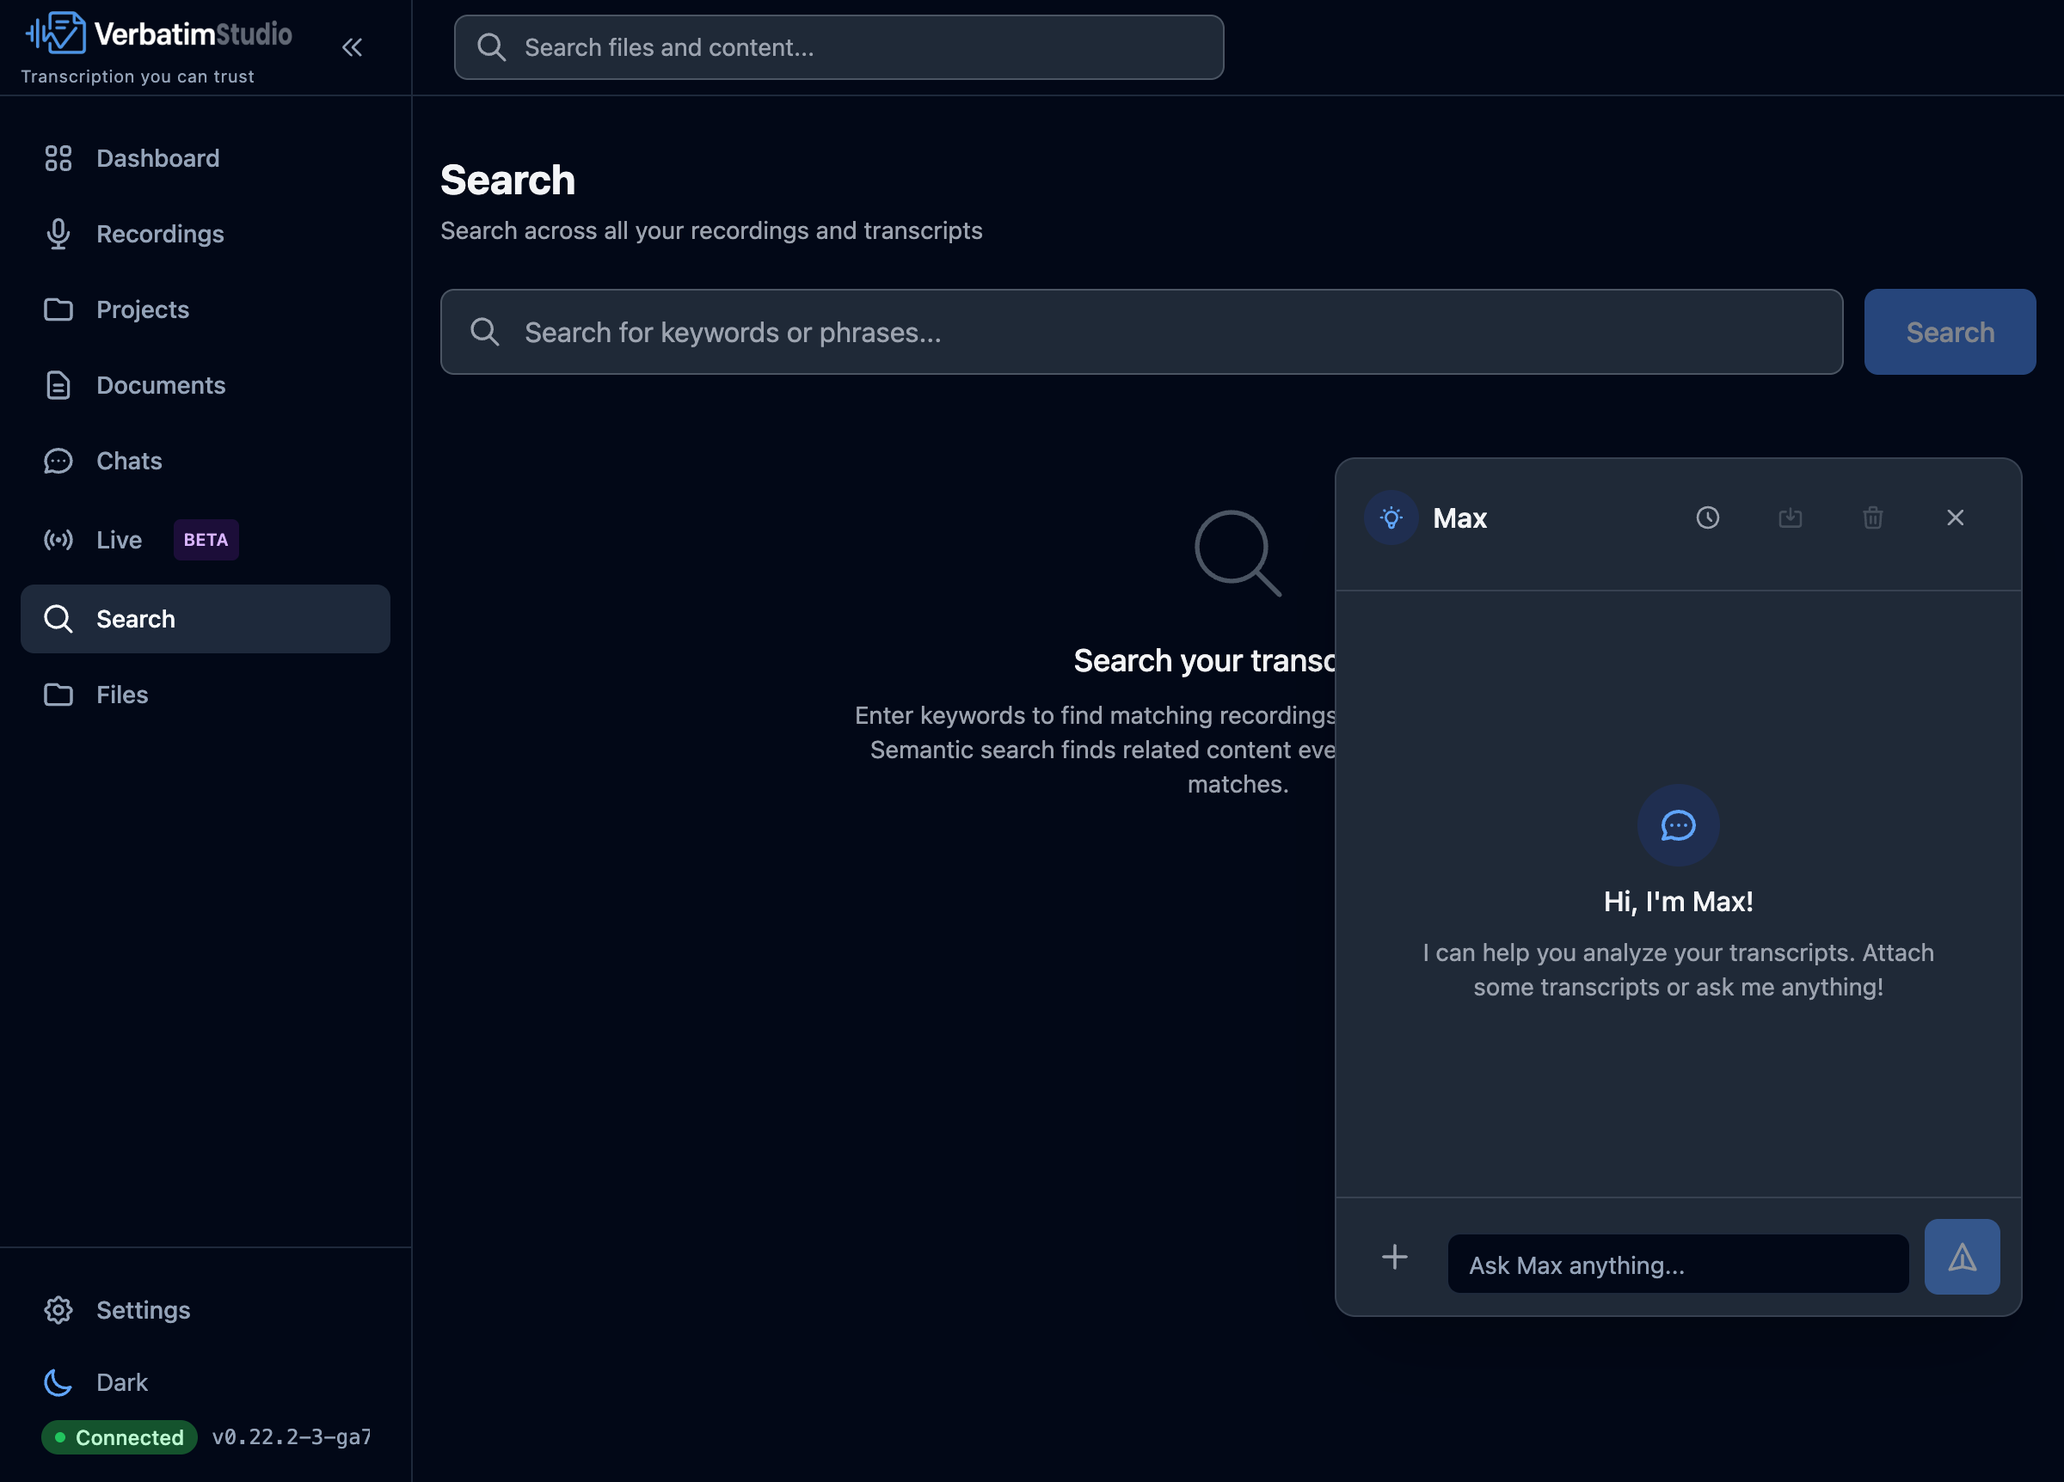
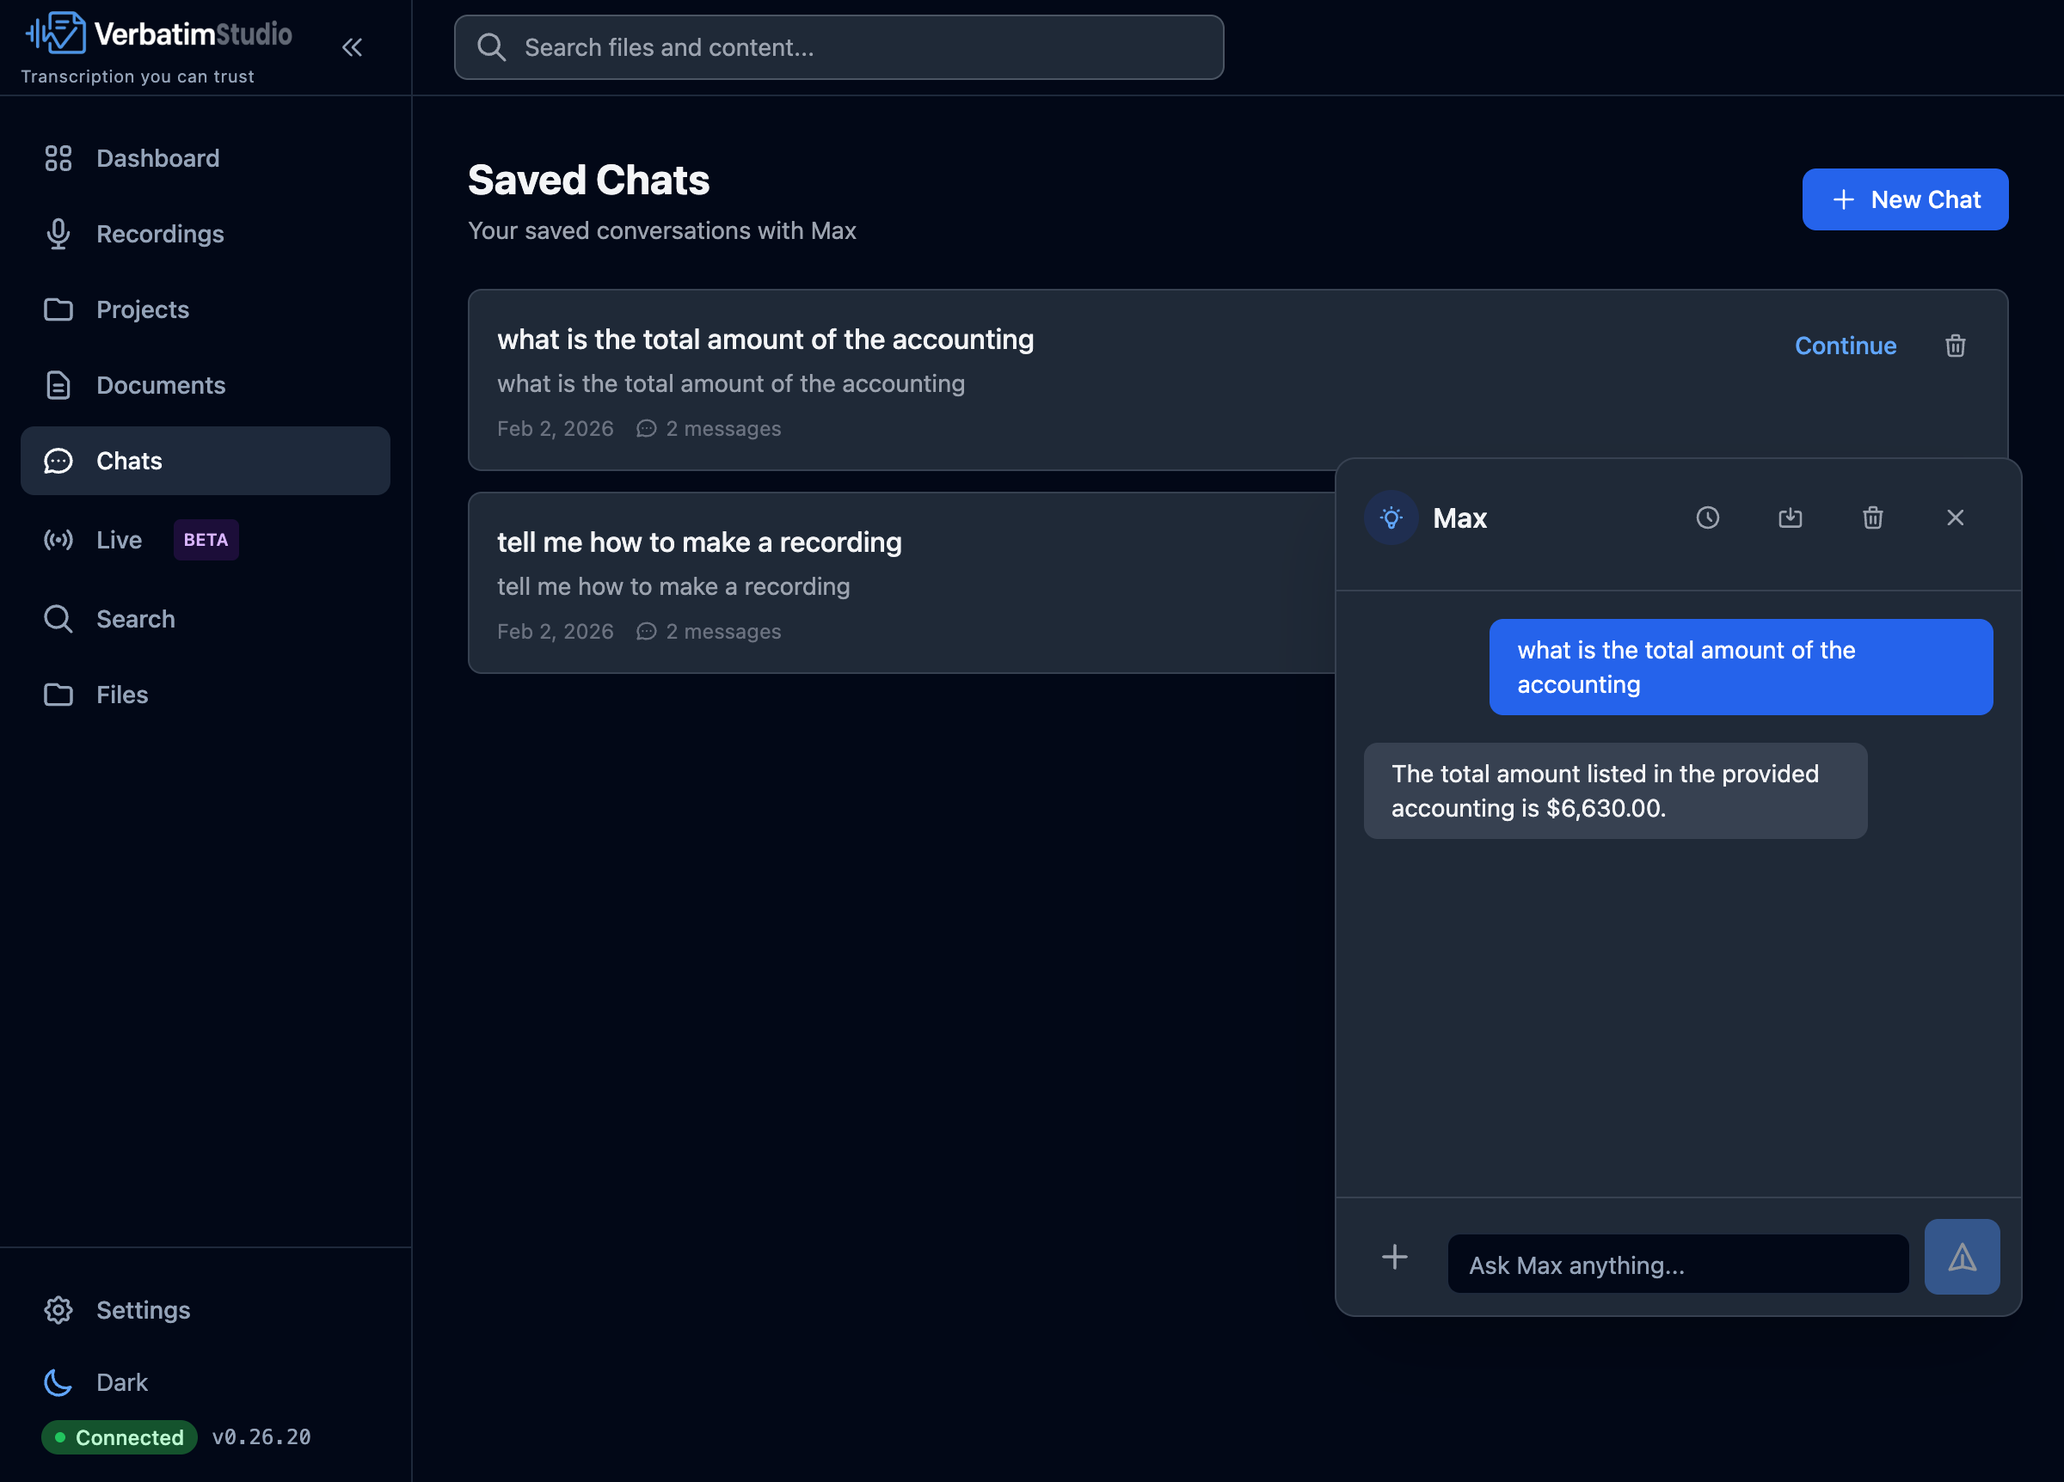
docs: rewrite README with improved marketing copy and fresh screenshots
- New tagline: "Your data. Your device. Your rules."
- Enhanced Why section with Built for Compliance and Built for Everyone
- Value-focused feature descriptions
- Added multi-language transcription support mention
- Updated platform table (macOS Apple Silicon available, others coming soon)
- Updated roadmap to v0.26.x with accurate feature status
- Fresh screenshots of current UI
- Archived old screenshots to docs/screenshots/archive-2025-02-01/

diff --git a/README.md b/README.md
@@ -8,7 +8,7 @@
 </h1>
 
 <p align="center">
-  <strong>Privacy-first transcription for sensitive workflows</strong>
+  <strong>Your data. Your device. Your rules.</strong>
 </p>
 
 <p align="center">
@@ -23,62 +23,84 @@
 <p align="center">
   <img src="https://img.shields.io/github/v/tag/JongoDB/verbatim-studio?label=version&color=blue" alt="Version">
   <img src="https://img.shields.io/badge/license-MIT-green.svg" alt="License">
-  <img src="https://img.shields.io/badge/python-3.12+-yellow.svg" alt="Python">
-  <img src="https://img.shields.io/badge/node-20+-green.svg" alt="Node">
+  <img src="https://img.shields.io/badge/platform-macOS-lightgrey.svg" alt="Platform">
 </p>
 
 ---
 
 ## Why Verbatim Studio?
 
-Organizations handling confidential information—law firms, medical practices, government agencies, research institutions—face a critical challenge: **cloud transcription services require sending sensitive audio to third-party servers.**
+Organizations handling confidential information—law firms, medical practices, government agencies, research institutions—face a critical challenge: **cloud transcription services require sending sensitive data to third-party servers.**
 
-Verbatim Studio eliminates this risk entirely. All transcription and AI processing happens locally on your machine. Your recordings never leave your control.
+Verbatim Studio eliminates this risk entirely. All transcription and AI processing happens locally on your machine. Your files never leave your control.
 
 ### Built for Compliance
 
-- **HIPAA-ready**: Patient interviews and medical dictation stay on-premises
-- **Legal privilege**: Attorney-client communications remain confidential
-- **Government security**: Classified briefings never touch external networks
-- **Research ethics**: IRB-protected interviews maintain participant privacy
+- **HIPAA-ready** — Patient interviews and medical dictation stay on-premises
+- **Legal privilege** — Attorney-client communications remain confidential
+- **Government security** — Classified briefings never touch external networks
+- **Research ethics** — IRB-protected interviews maintain participant privacy
+
+### Built for Everyone
+
+Not handling classified data? Verbatim Studio is still the smart choice:
+
+- **Project managers** documenting meetings and standups
+- **Content creators** transcribing interviews and podcasts
+- **Students and academics** processing lectures and research
+- **Anyone** who wants accurate transcription without privacy trade-offs or subscription fees
 
 ---
 
 ## Features
 
-### Core Transcription
+### Transcription That Actually Works
 
-- **Local AI Transcription** — WhisperX and MLX Whisper engines with automatic speaker diarization
-- **Live Transcription** — Real-time speech-to-text from microphone input
-- **Multi-language Support** — 12+ languages with auto-detection
-- **Video Support** — MP4, WebM, MOV, MKV with automatic audio extraction
+- **Whisper-powered accuracy** — The same AI that powers the best cloud services, running locally on your Mac
+- **Multi-language support** — Transcribe in 12+ languages with automatic detection
+- **Automatic speaker identification** — Know who said what without manual tagging
+- **Live transcription** — Real-time speech-to-text from your microphone
+- **Video support** — Drop in MP4, MOV, WebM, or MKV files and get transcripts automatically
 
 <p align="center">
   <img src="docs/screenshots/live-transcription.png" alt="Live Transcription" width="80%">
 </p>
 
-### AI-Powered Analysis
+### Max: Your AI Research Assistant
 
-- **Max AI Assistant** — Chat with your transcripts, ask questions, generate summaries
-- **Semantic Search** — Find content by meaning, not just keywords
-- **Local LLM** — All AI runs on-device via llama.cpp (no API keys required)
+Max isn't just a chatbot—it's a research tool that actually understands your content:
+
+- **Query across your entire library** — Ask questions that span multiple files and documents
+- **Persistent conversations** — Pick up where you left off with saved chat history
+- **Document-aware** — Upload PDFs, images, and notes for Max to reference
+- **Platform guidance** — Not sure how to do something? Just ask Max
+
+All powered by IBM Granite, running 100% locally. No API keys. No usage limits. No data leaving your machine.
 
 <p align="center">
-  <img src="docs/screenshots/ai-assistant.png" alt="AI Assistant" width="80%">
+  <img src="docs/screenshots/ai-assistant.png" alt="Max AI Assistant" width="80%">
 </p>
 
-### Organization & Export
+### Professional Editing Tools
 
-- **Project Management** — Organize recordings into projects with real folders on your filesystem
-- **Document Management** — Upload PDFs, images, and notes with OCR text extraction
-- **Export Options** — TXT, SRT, VTT, JSON, and full backup archives
-- **Cloud Storage** — Optional sync with Google Drive, OneDrive, and Dropbox
+- **Clickable timestamps** — Jump to any moment instantly
+- **Highlights and bookmarks** — Mark important segments for quick reference
+- **In-transcript search** — Find exactly what you're looking for with highlighted navigation
+- **Keyboard-first workflow** — Control playback without leaving your keyboard
+- **Inline annotations** — Add notes directly to your documents and transcripts
 
-### Professional Interface
+### Find Anything, Instantly
 
-- **Dark/Light Mode** — Full theme support with system preference detection
-- **Keyboard Shortcuts** — Professional editing workflow with customizable shortcuts
-- **Responsive Design** — Works on desktop and tablet devices
+- **Semantic search** — Find content by meaning, not just exact keywords
+- **Search everything** — Files, transcripts, documents, notes, and chat history in one place
+- **Smart results** — See context snippets so you know exactly what you're clicking into
+
+### Organize Your Way
+
+- **Real folders** — Projects map to actual directories on your filesystem
+- **Bulk operations** — Select multiple files and act on them at once
+- **Flexible storage** — Keep files local, on network drives, or synced with Google Drive, OneDrive, and Dropbox
+- **Full exports** — TXT, SRT, VTT, JSON, or complete backup archives
 
 <p align="center">
   <img src="docs/screenshots/settings.png" alt="Settings" width="80%">
@@ -88,22 +110,22 @@ Verbatim Studio eliminates this risk entirely. All transcription and AI processi
 
 ## Installation
 
-### Desktop App (Recommended)
+### Desktop App
 
-Download the latest release for your platform:
+Download for your platform:
 
-| Platform | Download | Notes |
-|----------|----------|-------|
-| **macOS (Apple Silicon)** | [Download .dmg](https://github.com/JongoDB/verbatim-studio/releases) | M1/M2/M3/M4 optimized with MLX Whisper |
-| **macOS (Intel)** | [Download .dmg](https://github.com/JongoDB/verbatim-studio/releases) | x64 with WhisperX |
-| **Windows** | [Download .exe](https://github.com/JongoDB/verbatim-studio/releases) | Windows 10/11 x64 |
-| **Linux** | [Download .AppImage](https://github.com/JongoDB/verbatim-studio/releases) | Ubuntu 20.04+, Debian, Fedora |
+| Platform | Download | Status |
+|----------|----------|--------|
+| **macOS (Apple Silicon)** | [Download .dmg](https://github.com/JongoDB/verbatim-studio/releases) | M1/M2/M3/M4 optimized |
+| **macOS (Intel)** | — | Coming soon |
+| **Windows** | — | Coming soon |
+| **Linux** | — | Coming soon |
 
-The desktop app is self-contained—no Python, Node.js, or other dependencies required. Just download, install, and run.
+The app is self-contained—no Python, Node.js, or other dependencies required. Just download, install, and run.
 
 ### First Launch
 
-On first launch, Verbatim Studio will download the required AI models (~3-5 GB total). This happens once and models are cached locally.
+On first launch, Verbatim Studio will guide you through downloading the AI models you need. Choose what fits your workflow—transcription only, or the full suite with Max and semantic search.
 
 <details>
 <summary><strong>macOS: "App is damaged" or "unidentified developer" warning</strong></summary>
@@ -132,16 +154,6 @@ Files downloaded via `curl` bypass macOS quarantine, so you won't see security w
 </details>
 
 <details>
-<summary><strong>Windows: SmartScreen warning</strong></summary>
-
-The app is not yet code-signed. When you see the SmartScreen warning:
-
-1. Click **More info**
-2. Click **Run anyway**
-
-</details>
-
-<details>
 <summary><strong>Development Setup (Build from Source)</strong></summary>
 
 #### Prerequisites
@@ -164,7 +176,7 @@ pnpm install
 # Set up Python environment
 cd packages/backend
 python -m venv .venv
-source .venv/bin/activate  # or `.venv\Scripts\activate` on Windows
+source .venv/bin/activate
 pip install -e ".[dev]"
 cd ../..
 ```
@@ -172,10 +184,10 @@ cd ../..
 #### Run Development Servers
 
 ```bash
-# Option 1: Run both frontend and backend
+# Run both frontend and backend
 pnpm dev
 
-# Option 2: Run separately
+# Or run separately
 # Terminal 1 - Backend
 cd packages/backend && source .venv/bin/activate
 python -m uvicorn api.main:app --reload --port 8000
@@ -186,28 +198,21 @@ cd packages/frontend && pnpm dev
 
 Open [http://localhost:5173](http://localhost:5173) in your browser.
 
-#### Platform Notes
-
-**macOS (Apple Silicon)**: Uses MLX Whisper for optimized transcription on M1/M2/M3/M4 chips.
-
-**macOS (Intel) / Linux / Windows**: Uses WhisperX with PyTorch. CUDA support available for NVIDIA GPUs.
-
 </details>
 
 ---
 
 ## Quick Start
 
-1. **Upload or Record** — Click **Upload Audio/Video** or **Record Audio** on the dashboard
-2. **Transcribe** — Processing happens locally on your machine
-3. **Review** — Edit speaker names, add highlights, leave comments
-4. **Export** — Download as TXT, SRT, VTT, or JSON
+1. **Upload or record** — Drag in audio/video files or start a live transcription
+2. **Let the AI work** — Transcription happens locally, typically faster than real-time on Apple Silicon
+3. **Review and refine** — Edit speaker names, highlight key moments, add notes
+4. **Ask Max** — Query your content, generate summaries, or get help using the platform
+5. **Export** — Download as TXT, SRT, VTT, or JSON
 
 ---
 
 ## Architecture
-
-Verbatim Studio uses a clean adapter-based architecture:
 
 <pre align="center">
 ┌─────────────────────────────────────────────────────────────┐
@@ -241,41 +246,66 @@ Verbatim Studio uses a clean adapter-based architecture:
 
 ## Roadmap
 
-### Current Release (v0.23.x) — Basic Tier
+### Current Release (v0.26.x)
 
-- [x] Local AI transcription with speaker diarization
+**Core Platform**
+- [x] Native macOS desktop app (Apple Silicon optimized)
+- [x] Local AI transcription with speaker identification
 - [x] Live transcription from microphone
-- [x] AI assistant (Max) for transcript analysis
+- [x] Video file support with automatic audio extraction
+
+**AI Assistant (Max)**
+- [x] Multi-document conversations with chat history
 - [x] Semantic search across all content
-- [x] Project organization with filesystem folders
-- [x] Document management with OCR
-- [x] Cloud storage integration (Google Drive, OneDrive, Dropbox)
+- [x] Platform guidance and help
+
+**Editing & Organization**
+- [x] Clickable timestamps and playback keyboard shortcuts
+- [x] Segment highlights and bookmarks
+- [x] In-transcript search with navigation
+- [x] Inline document annotations
+- [x] Project-based organization with real filesystem folders
+- [x] Bulk operations
+
+**Storage & Export**
+- [x] Local, network, and cloud storage options
+- [x] Google Drive, OneDrive, Dropbox integration
 - [x] Export to TXT, SRT, VTT, JSON
-- [x] Dark mode and keyboard shortcuts
 
 ### In Development
 
-- [ ] **Desktop App** — Native Electron application for macOS, Windows, Linux
-- [ ] **External AI Services** — Connect to Ollama, OpenAI, or self-hosted LLM/WhisperX
-- [ ] **S3 Object Storage** — Store media in AWS S3, MinIO, or compatible services
-- [ ] **Network Storage** — Mount SMB/NFS shares for centralized media access
+- [ ] Automatic update notifications with release notes
+- [ ] External LLM connections (Ollama, OpenAI, self-hosted)
+- [ ] Windows and Linux desktop apps
+- [ ] macOS Intel support
 
-### Enterprise Tier (Future)
+### Enterprise Tier (Planned)
 
-- [ ] User authentication with RBAC
+- [ ] Multi-user with role-based access control
+- [ ] Meeting bots for Teams, Google Meet, and Zoom
 - [ ] PostgreSQL database support
-- [ ] Meeting bots for Teams, Meet, and Zoom
-- [ ] Team collaboration with shared projects
+- [ ] Administration dashboard
 - [ ] Audit logging and compliance reports
-- [ ] Admin dashboard for service management
-
-See the full [ROADMAP.md](docs/ROADMAP.md) for detailed planning.
+- [ ] Secure mobile access to self-hosted servers
 
 ---
 
 ## Configuration
 
-Most settings are available through the **Settings** page in the app. For advanced configuration:
+Most settings are available through the **Settings** page in the app.
+
+### AI Models
+
+On first use, Verbatim Studio downloads the AI models you select:
+
+| Model | Size | Purpose |
+|-------|------|---------|
+| Whisper (base) | ~150 MB | Transcription (configurable up to large-v3) |
+| pyannote | ~200 MB | Speaker identification |
+| nomic-embed-text | ~550 MB | Semantic search |
+| IBM Granite 3.3 | ~5 GB | Max AI assistant (2B lite version also available) |
+
+Models are cached locally and only download once.
 
 <details>
 <summary><strong>Environment Variables (Developers)</strong></summary>
@@ -284,12 +314,12 @@ Create a `.env` file in `packages/backend/`:
 
 ```bash
 # Core settings
-VERBATIM_MODE=basic                 # 'basic' or 'enterprise'
+VERBATIM_MODE=basic
 VERBATIM_DATA_DIR=~/.verbatim-studio
 
 # Transcription
-VERBATIM_WHISPERX_MODEL=base        # tiny, base, small, medium, large-v3
-VERBATIM_WHISPERX_DEVICE=auto       # auto, cpu, cuda, mps
+VERBATIM_WHISPERX_MODEL=base
+VERBATIM_WHISPERX_DEVICE=auto
 
 # OAuth (optional - for cloud storage)
 VERBATIM_GOOGLE_CLIENT_ID=your-client-id
@@ -298,24 +328,11 @@ VERBATIM_GOOGLE_CLIENT_SECRET=your-secret
 
 </details>
 
-### AI Models
-
-On first use, Verbatim Studio downloads required AI models:
-
-| Model | Size | Purpose |
-|-------|------|---------|
-| Whisper (base) | ~150 MB | Transcription (configurable up to large-v3) |
-| pyannote speaker diarization | ~200 MB | Speaker identification |
-| nomic-embed-text-v1.5 | ~550 MB | Semantic search embeddings |
-| IBM Granite 3.3 8B | ~5 GB | AI assistant (optional, 2B lite version available) |
-
-Models are cached in `~/.cache/huggingface/` and only download once.
-
 ---
 
 ## Contributing
 
-Contributions are welcome. See the [Development Setup](#development-setup-build-from-source) section above to get started.
+Contributions are welcome. See the [Development Setup](#development-setup-build-from-source) section to get started.
 
 ### Building the Desktop App
 
@@ -341,11 +358,6 @@ cd packages/frontend && pnpm test
 # Type checking
 cd packages/frontend && pnpm typecheck
 ```
-
-### Code Style
-
-- **Frontend**: ESLint + Prettier
-- **Backend**: Black + isort + mypy
 
 ---
 
